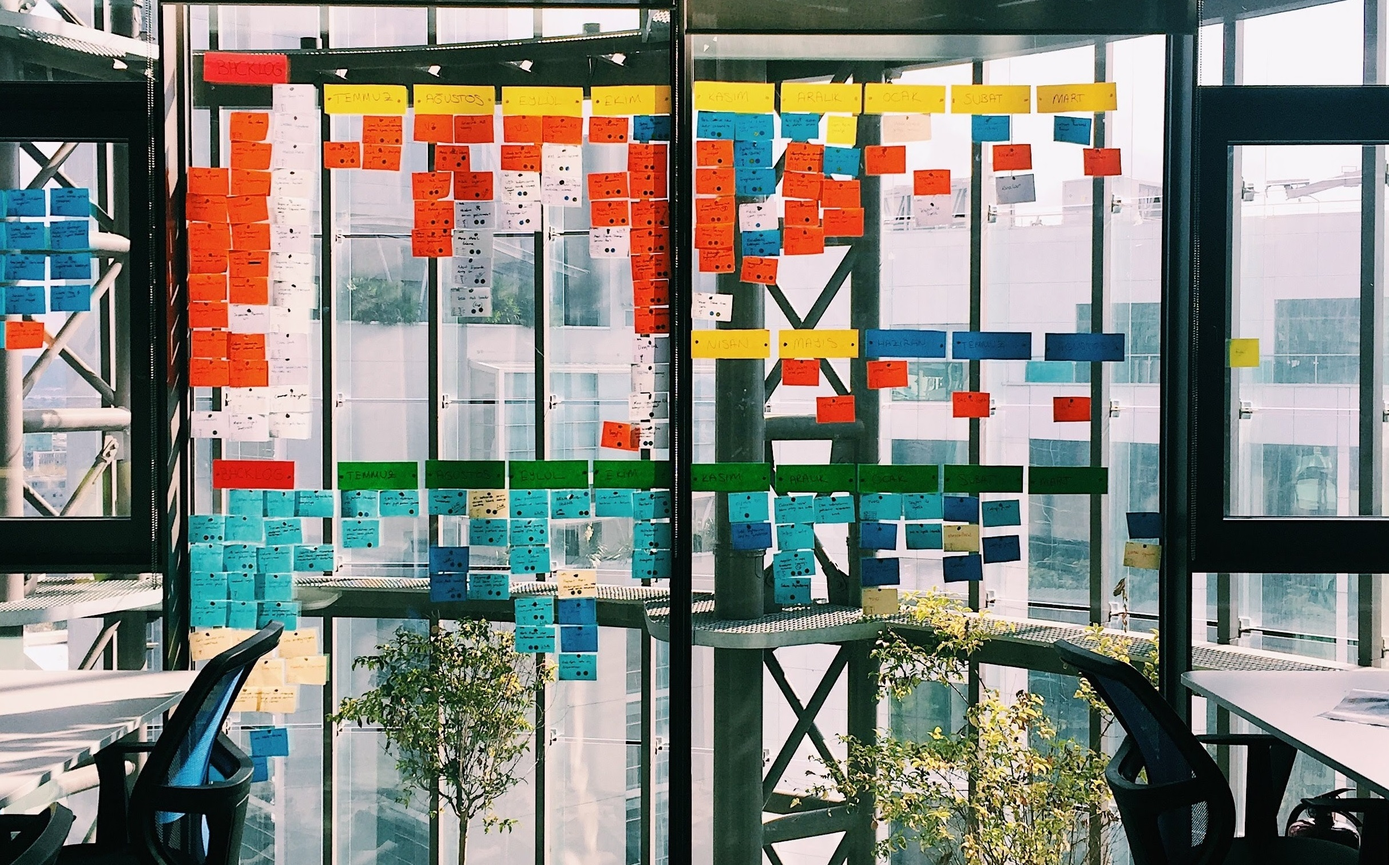
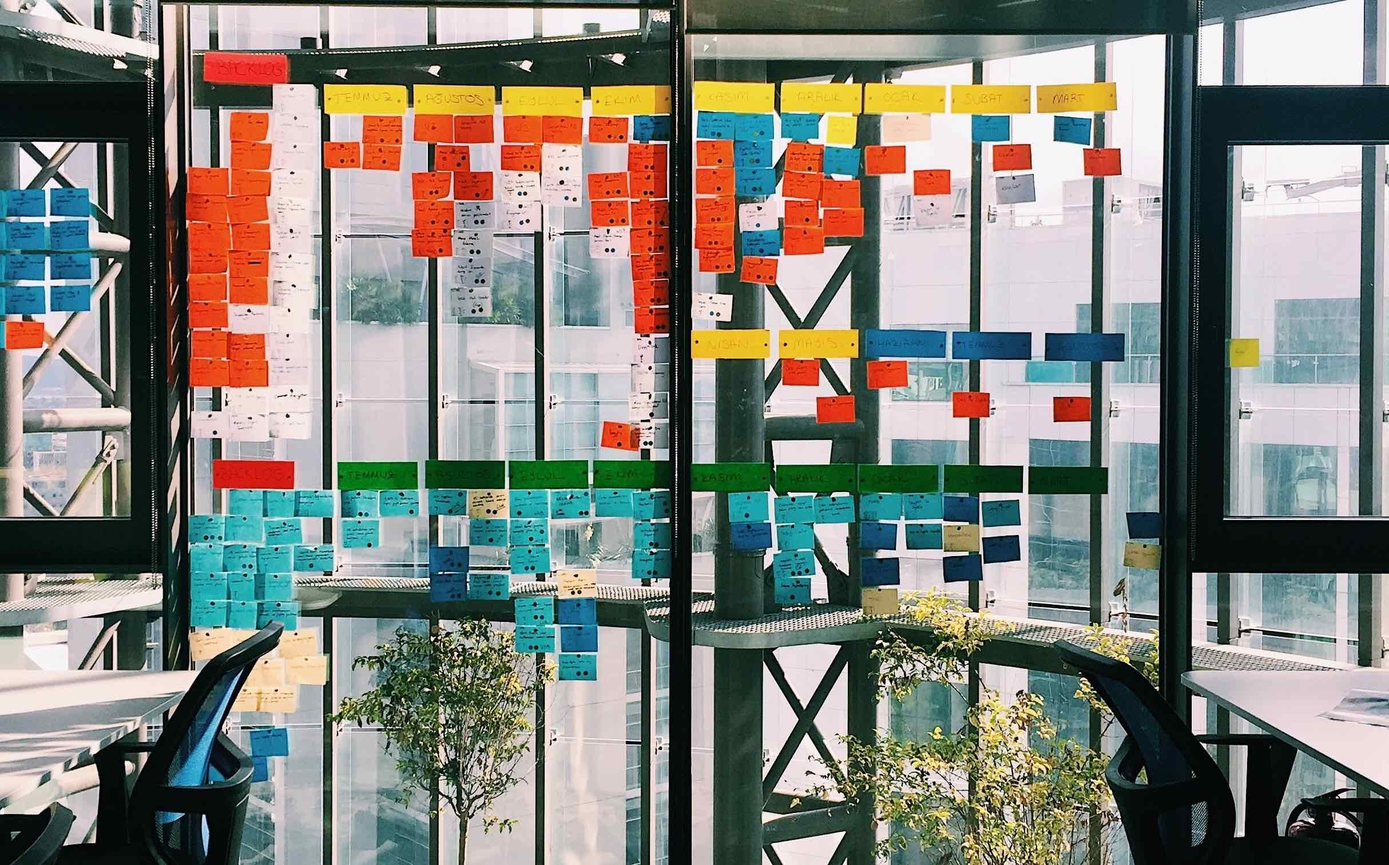
Compress imgs

diff --git a/index_se.html b/index_se.html
@@ -302,7 +302,7 @@
 	<section id="careers" class="h-sm">
 		<div class="row text-center">	
 		
-			<div class="bg-parallax" data-parallax="scroll" data-image-src="assets/img/photos/office3.png">
+			<div class="bg-parallax" data-parallax="scroll" data-image-src="assets/img/photos/office3.jpg">
 			<div class="v-center text-center">
 			<h3 id="shadow" class="text-center">"Sebratec är ett teknikföretag specialiserat på tjänster och utbildning för teknikindustrin.<br> Vi levererar expertis till våra kunder och hjälper våra anställda att nå nästa utmaning i sin karriär." </h3>
 			<p id="shadow" class="text-center">Renan Borba & Denni Gustafsson</p>

diff --git a/index.html b/index.html
@@ -306,7 +306,7 @@
 	<section id="careers" class="h-sm">
 	<div class="row text-center">	
 		
-			<div class="bg-parallax" data-parallax="scroll" data-image-src="assets/img/photos/office3.png">
+			<div class="bg-parallax" data-parallax="scroll" data-image-src="assets/img/photos/office3.jpg">
 			<div class="v-center text-center">		
 				<h3 id="shadow" class="text-center">"Sebratec is an Engineering Tech Company specialised in services and education for the tech industry.<br> We deliver expertise to our clients and help our people to reach the next challenge in their careers." </h3>
 				<p id="shadow" class="text-center">Renan Borba & Denni Gustafsson</p>
